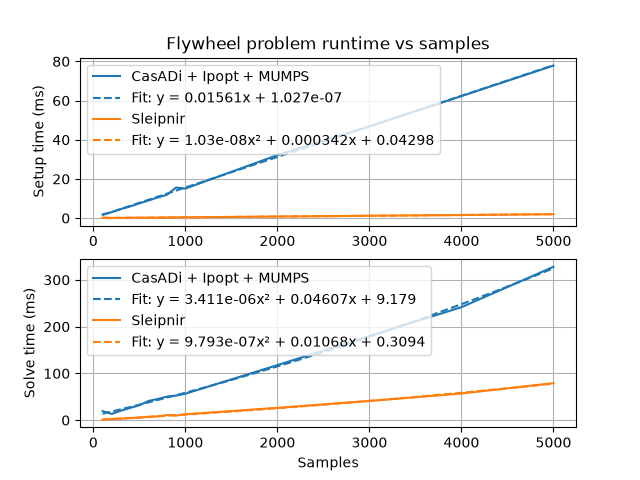
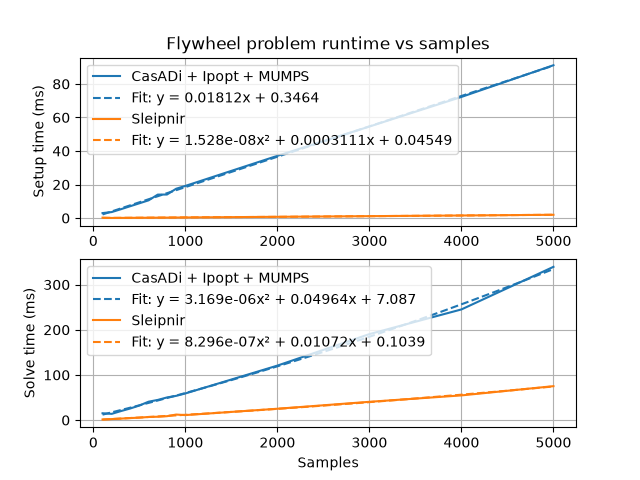
Rerun scalability benchmark (#1314)

diff --git a/benchmarks/README.md b/benchmarks/README.md
@@ -26,12 +26,12 @@ Generated by [benchmarks/generate-scalability-results.sh](https://github.com/Sle
 
 * CPU: AMD Ryzen 7 7840U
 * RAM: 64 GB, 5600 MHz DDR5
-* Compiler version: g++ (GCC) 16.1.1 20260728
+* Compiler version: g++ (GCC) 16.2.1 20260810
 
 The benchmarks use the following thirdparty software:
 
-* CasADi 3.7.2 (autodiff and NLP solver frontend)
-* Ipopt 3.14.19 (NLP solver backend)
+* CasADi 3.8.0 (autodiff and NLP solver frontend)
+* Ipopt 3.14.20 (NLP solver backend)
 * MUMPS 5.8.1 (linear solver)
 
 Ipopt uses MUMPS by default because it has free licensing. Commercial linear solvers may be much faster.
